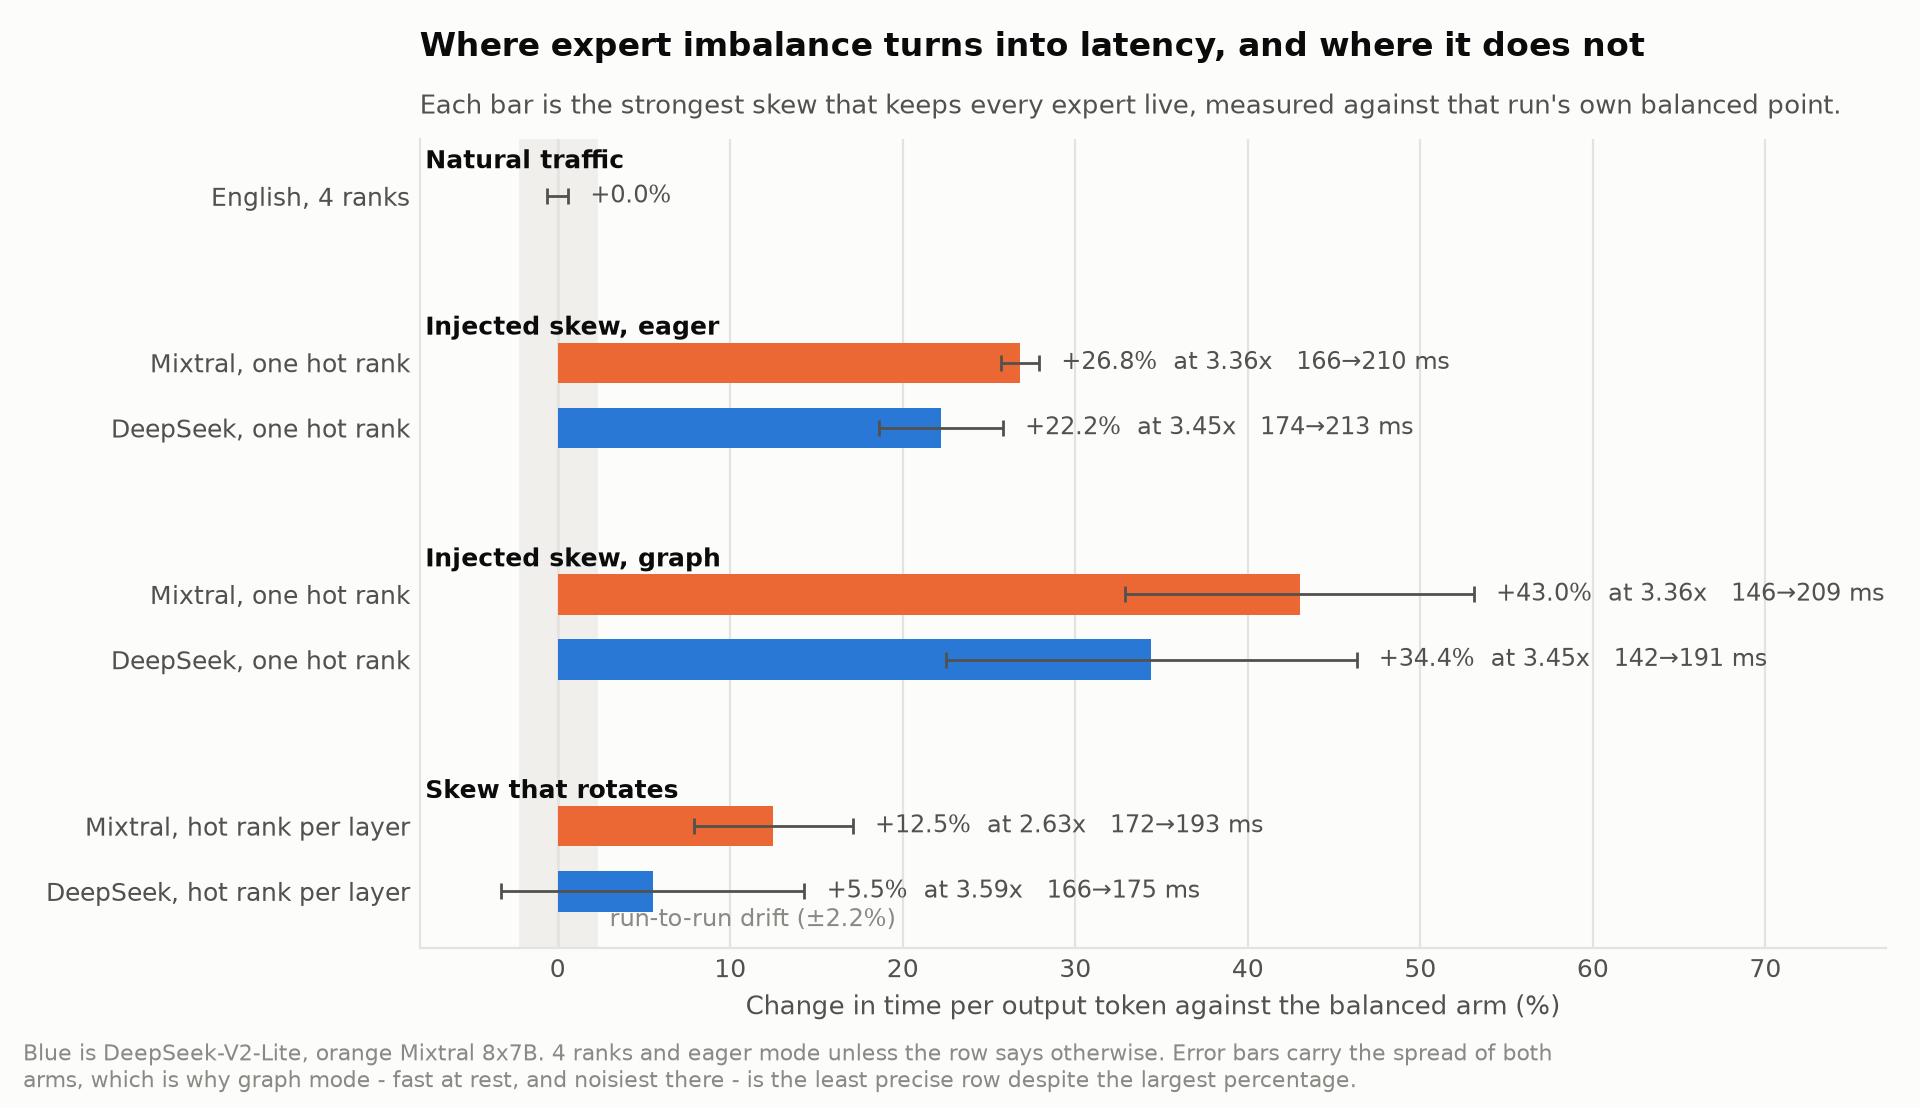
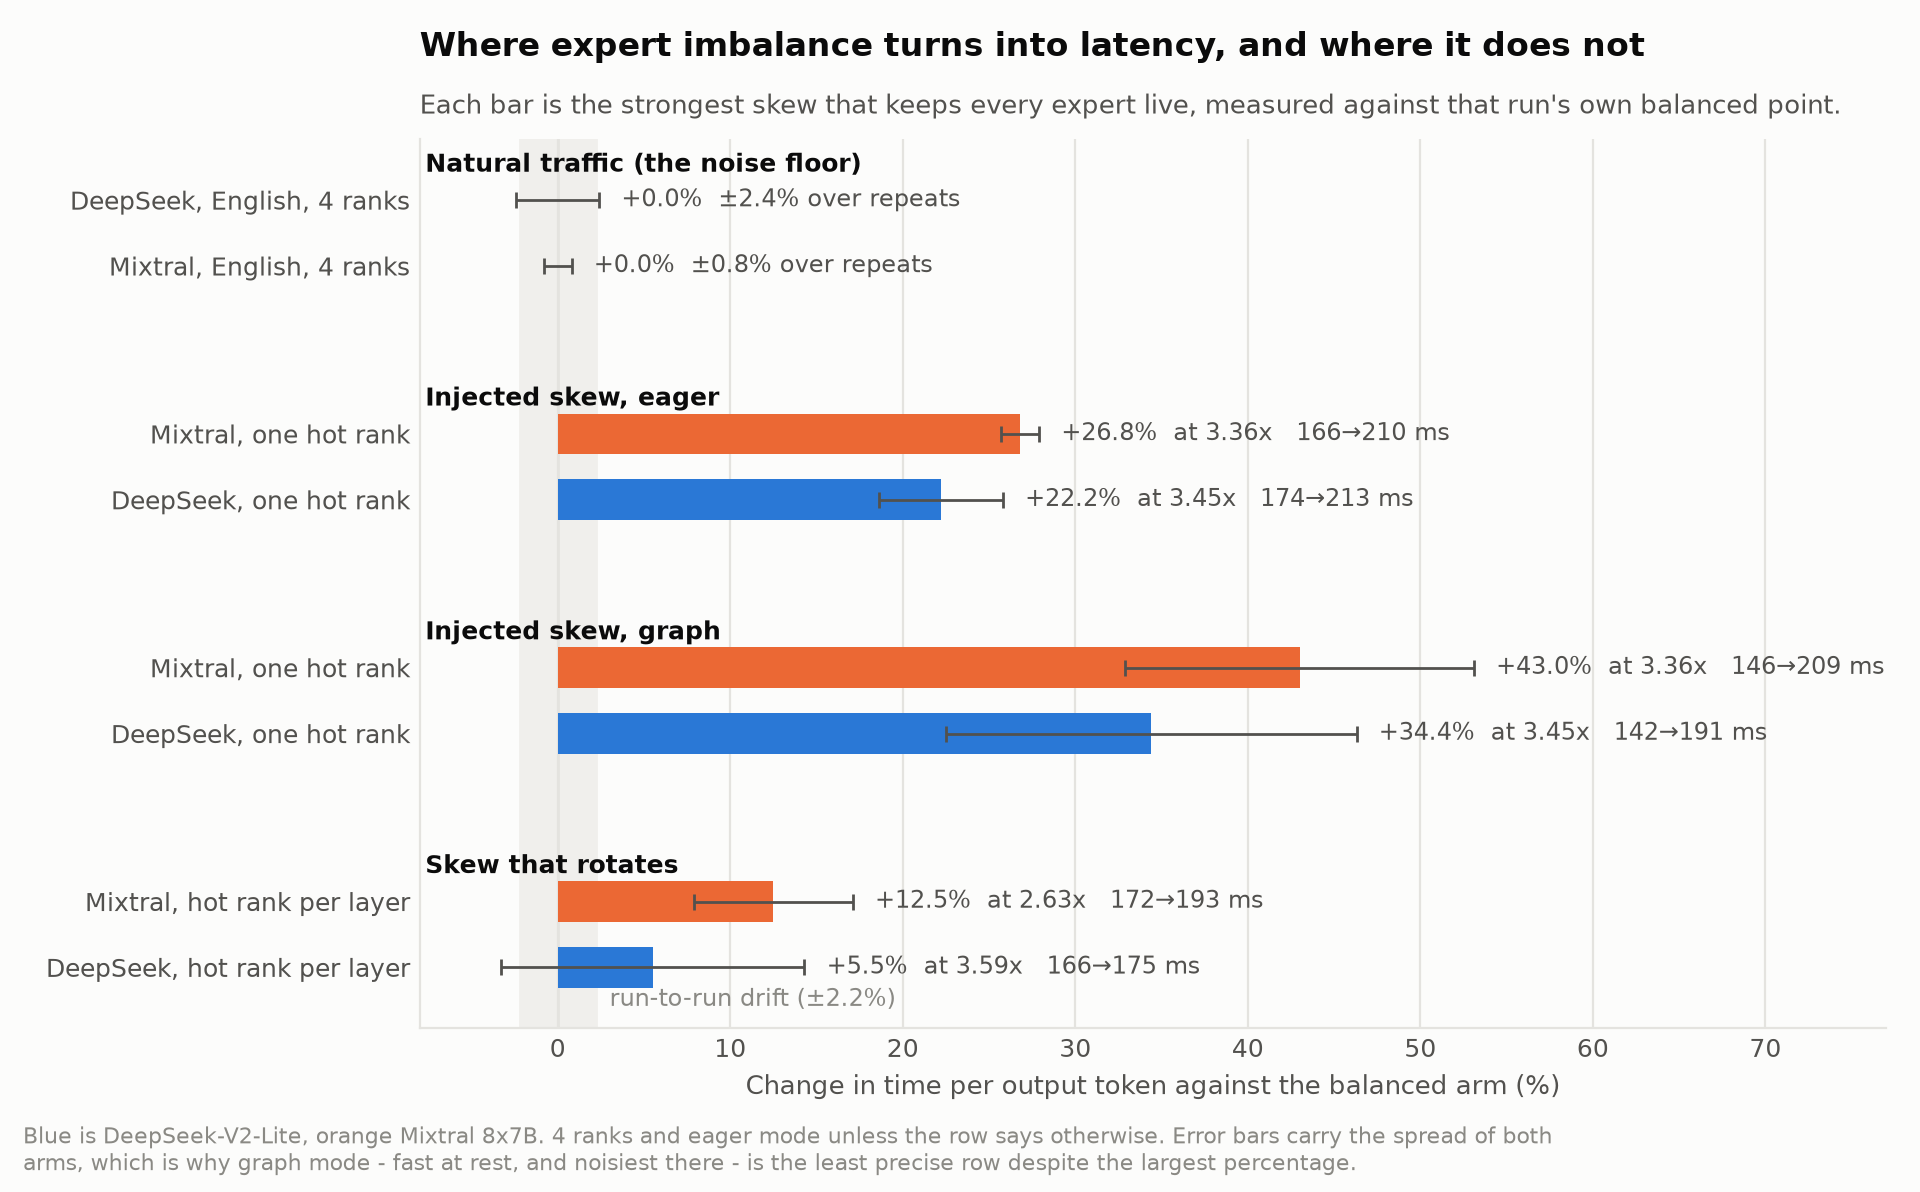
Compute the natural-traffic row per model instead of hard-coding one
regimes.png carried a single hard-coded bar for natural traffic, with an
invented spread of 0.6% and Mixtral's colour, standing in for both
models. It is now computed from each sweep's balanced arm, and the two
differ threefold: DeepSeek spreads 2.4% over three repeats where Mixtral
spreads 0.8%.

That is worth more than the figure fix. DeepSeek's own noise floor
exceeds the 2.2% drift band the analysis uses as its threshold
throughout, so the band is about right for Mixtral and slightly
optimistic for DeepSeek - consistent with DeepSeek being the model whose
curve shape two sweeps could not agree on. Recorded in findings.md.

diff --git a/scripts/plot_findings.py b/scripts/plot_findings.py
@@ -737,9 +737,23 @@ def fig_regimes(out, store):
                          "balanced_ms": round(result[3], 1), "skewed_ms": round(result[4], 1),
                          "note": note})
 
-    # Natural traffic is the null: the same measurement with nothing injected.
-    add("Natural traffic", "English, 4 ranks", "mixtral", (1.15, 0.0, 0.6, 165.5, 165.5),
-        "the 2026-10-02 null")
+    # Natural traffic is the null, and the content of the row is its error bar:
+    # the balanced arm of each sweep, repeated three times, is the noise floor
+    # that any claimed cost has to clear. The two models differ threefold here,
+    # so one shared bar would misreport both.
+    for pattern, model in ((EAGER[0], "deepseek-v2"), (EAGER[1], "mixtral")):
+        runs = list(manifests(pattern))
+        if not runs:
+            continue
+        _, by = sweep(pattern)
+        arm = by.get(0.0)
+        if not arm or len(arm) < 2:
+            continue
+        mean = float(np.mean(arm))
+        add("Natural traffic (the noise floor)",
+            f"{MODEL_LABEL[model].split('-')[0].split(' ')[0]}, English, 4 ranks", model,
+            (1.15, 0.0, 100 * float(np.std(arm, ddof=1)) / mean, mean, mean),
+            "balanced arm, 3 repeats")
     for pattern, model in (("*language-latency-007", "mixtral"),):
         r = top_level_cost(pattern, loads={0.0: 1.47})  # unbiased; load is the corpus's own
         add("Natural traffic", "Yoruba, 4 ranks", model, r)
@@ -789,6 +803,8 @@ def fig_regimes(out, store):
         detail = f"  at {r['load']:.2f}x" if r["load"] > 1.2 else ""
         if r["balanced_ms"] != r["skewed_ms"]:
             detail += f"   {r['balanced_ms']:.0f}\u2192{r['skewed_ms']:.0f} ms"
+        elif r["sd"]:
+            detail = f"  \u00b1{r['sd']:.1f}% over repeats"
         ax.annotate(f"{r['pct']:+.1f}%" + detail,
                     xy=(r["pct"] + (r["sd"] if r["pct"] >= 0 else -r["sd"]), y),
                     xytext=(8 if r["pct"] >= 0 else -8, 0), textcoords="offset points",

diff --git a/docs/findings.md b/docs/findings.md
@@ -377,6 +377,13 @@ jump at the first non-zero level. The affected runs had to be repeated.
 looked like thresholds and turned out to be the machine. Repeating each
 measurement is the only noise floor available.
 
+**And that floor is not the same for both models.** The balanced arm of the same
+sweep, repeated three times, spreads ±2.4% on DeepSeek and ±0.8% on Mixtral. The
+±2.2% drift band used as the threshold throughout is therefore about right for
+Mixtral and slightly optimistic for DeepSeek - which is consistent with DeepSeek
+being the model whose curve shape we could not resolve. A single shared noise
+floor quoted for both models would misreport one of them.
+
 **Statistical significance from the wrong unit.** Comparing thousands of
 individual requests gave p-values below 1e-90 for differences that repetition
 showed to be noise. All requests in one measurement share a server, a warm-up and
